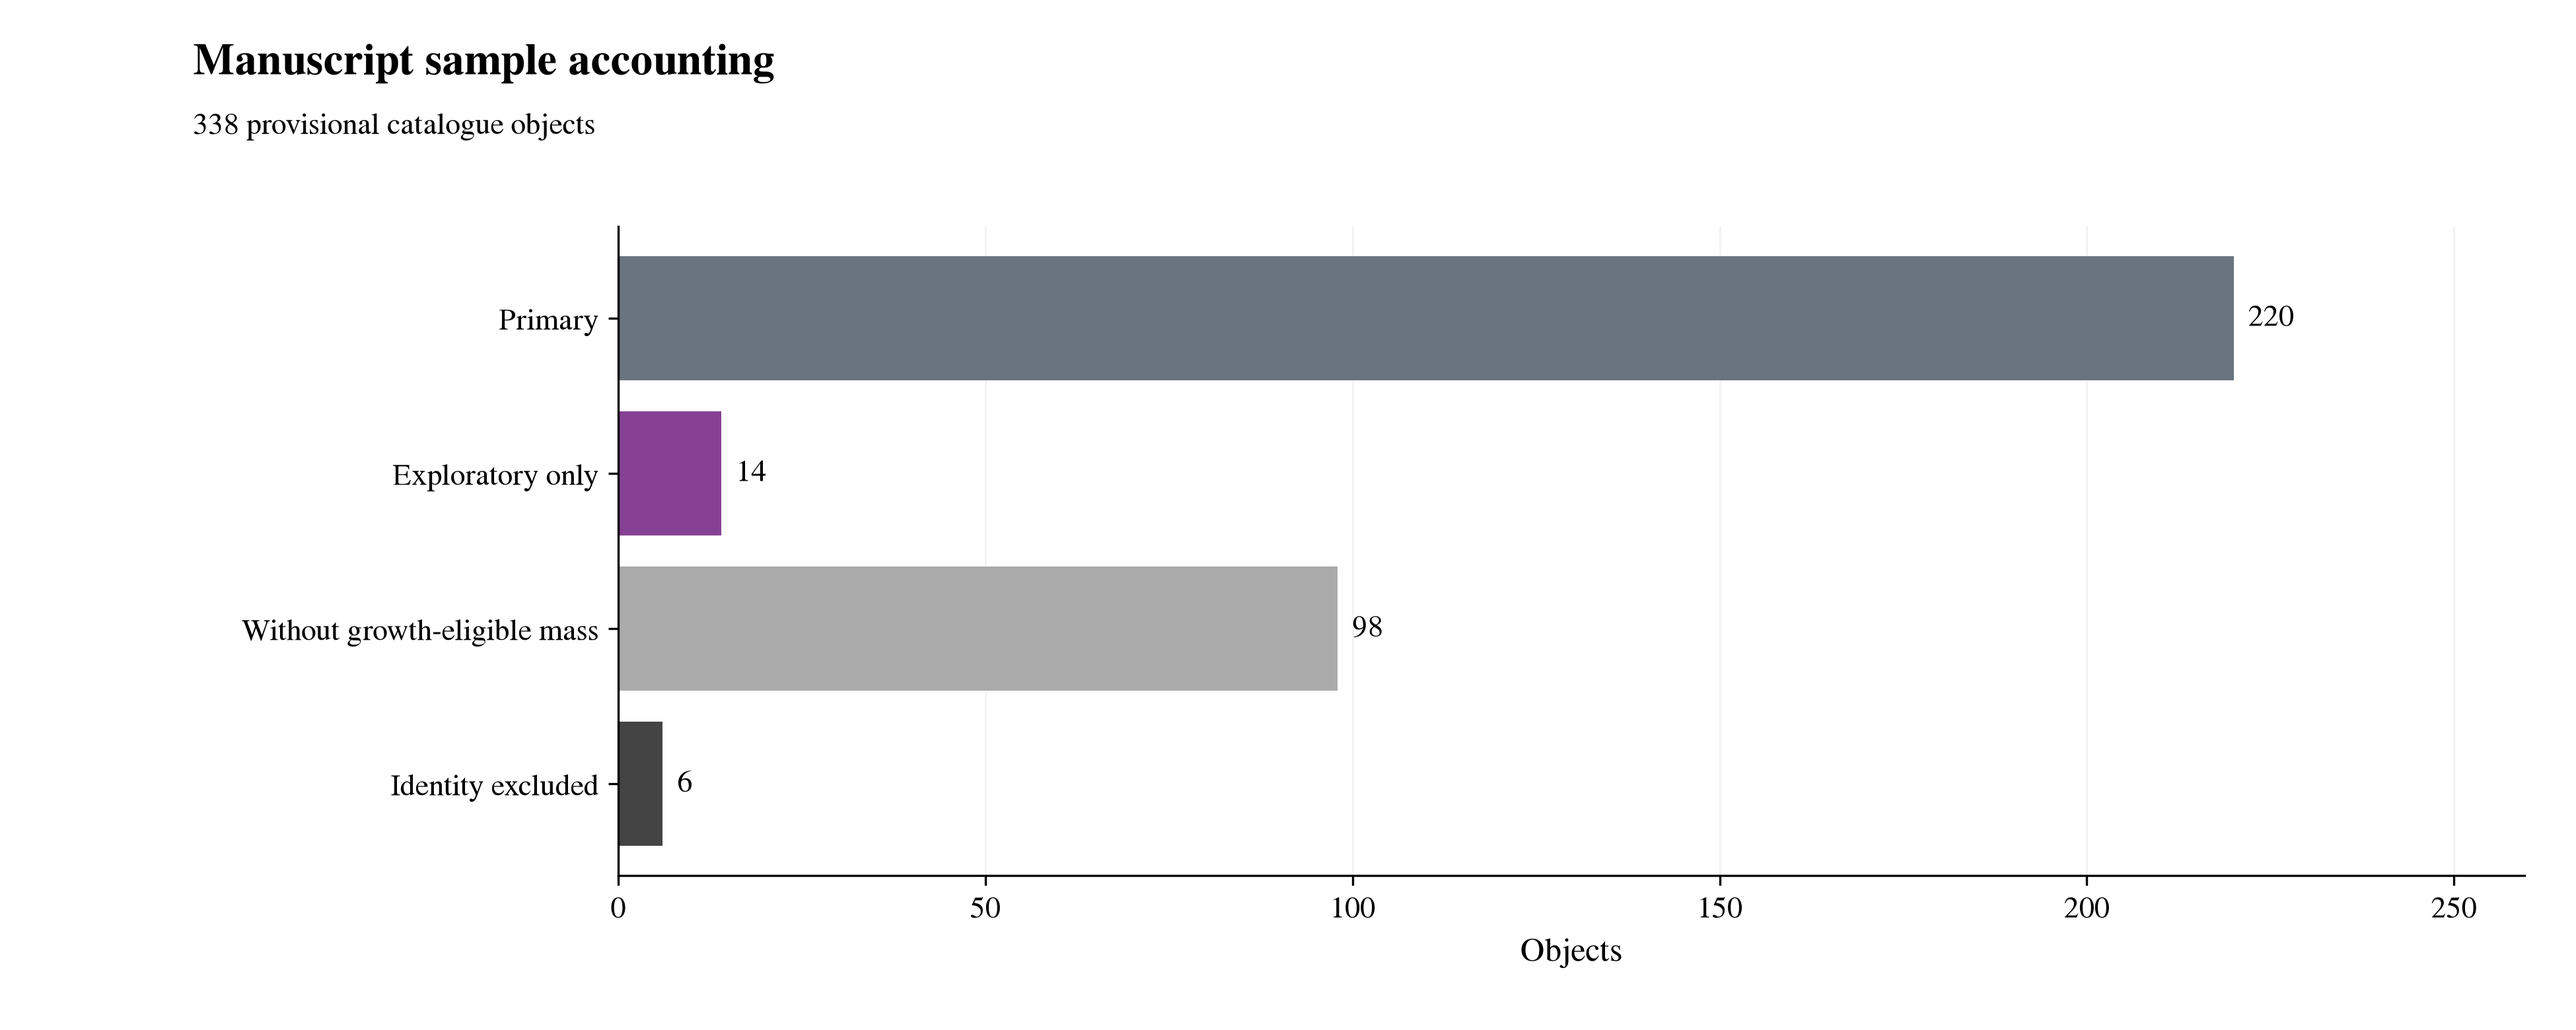
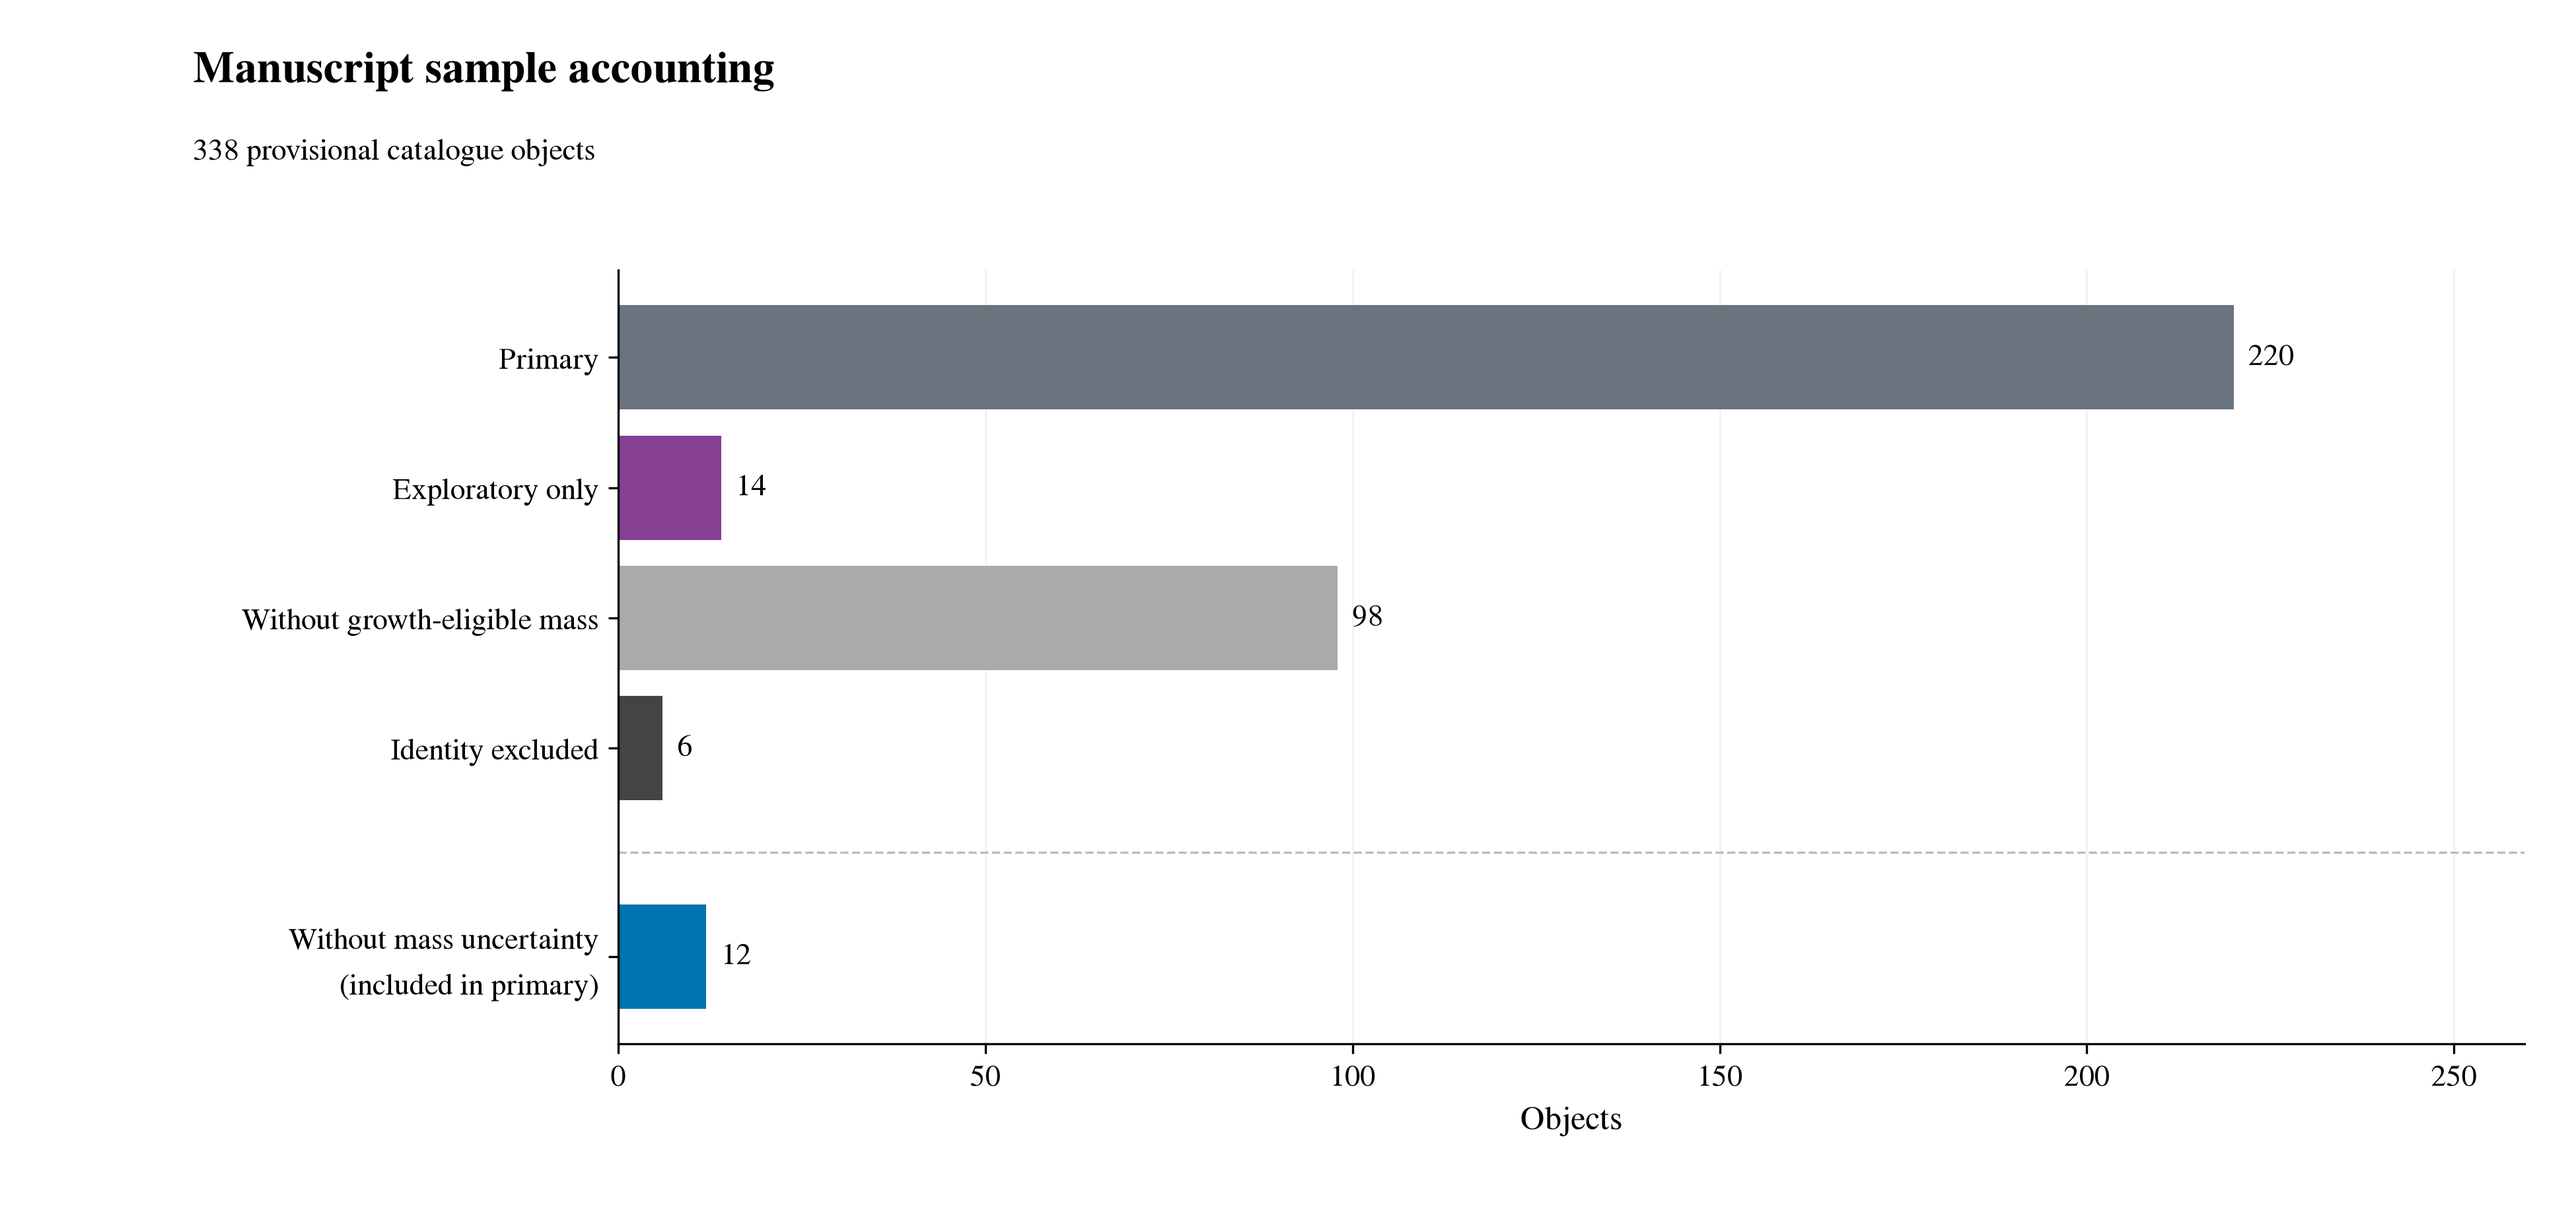
Add missing mass uncertainty subset to sample accounting figure

diff --git a/src/internal/publication_figures.py b/src/internal/publication_figures.py
@@ -44,15 +44,23 @@ def render_figures(root=ROOT, destination=None):
             fig.savefig(destination/f'{name}.pdf', facecolor='white',
                         metadata={'CreationDate': None, 'ModDate': None})
             plt.close(fig)
-        fig, counts = plt.subplots(figsize=(13,5.2))
+        fig, counts = plt.subplots(figsize=(13,6.2))
         fig.subplots_adjust(left=.24,right=.98,bottom=.15,top=.78)
         fig.text(.075,.96,'Manuscript sample accounting',fontsize=16,weight='bold',va='top')
         fig.text(.075,.87,f'{len(selection)} provisional catalogue objects',fontsize=11)
         excluded = selection.excluded_identity_flag
         values = [len(primary),len(point)-len(primary),int((~excluded & ~selection.growth_ranking_eligible_flag).sum()),int(excluded.sum())]
-        labels = ['Primary','Exploratory only','Without growth-eligible mass','Identity excluded']
-        counts.barh(labels,values,color=['#69747e','#874194','#aaa','#444'])
-        for i,v in enumerate(values):counts.text(v+2,i,str(v),va='center')
+        missing_errors = uncertainty.loc[~uncertainty.reported_mass_errors_sampled]
+        if not set(missing_errors.physical_object_id).issubset(primary):
+            raise ValueError('Update the missing-uncertainty subset label: not all objects are primary')
+        values.append(len(missing_errors))
+        labels = ['Primary','Exploratory only','Without growth-eligible mass','Identity excluded',
+                  'Without mass uncertainty\n(included in primary)']
+        positions = [0,1,2,3,4.6]
+        counts.barh(positions,values,color=['#69747e','#874194','#aaa','#444','#0072B2'])
+        counts.set_yticks(positions, labels)
+        counts.axhline(3.8, color='#bbb', linewidth=.8, linestyle='--')
+        for y,v in zip(positions,values):counts.text(v+2,y,str(v),va='center')
         counts.set(xlabel='Objects',xlim=(0,max(values)*1.18));counts.invert_yaxis()
         counts.grid(axis='x',alpha=.15);counts.set_axisbelow(True)
         save(fig,'landscape')

diff --git a/paper/highz_accretion_atlas_v3.tex b/paper/highz_accretion_atlas_v3.tex
@@ -695,10 +695,12 @@ Table~\ref{tab:sources} lists the contributing source families.
 \begin{figure}[htbp]
 \centering
 \includegraphics[width=0.99\textwidth]{figures/landscape.pdf}
-\caption{Sample accounting for 338 provisional catalogue objects. Mutually exclusive
-categories comprise 220 primary objects, 14 additional exploratory objects,
-98 retained without eligible masses, and 6 identity exclusions. The inclusive
-exploratory numerical sample contains 234 objects.}
+\caption{Sample accounting for 338 provisional catalogue objects. The first four
+bars show mutually exclusive categories: 220 primary objects, 14 additional
+exploratory objects, 98 retained without eligible masses, and 6 identity exclusions.
+The final bar shows the 12 primary objects without reported mass uncertainties;
+these are included in the primary count. The inclusive exploratory sample contains
+234 objects. Probability calculations use 208 primary and 222 exploratory objects.}
 \label{fig:landscape}
 \end{figure}
 

diff --git a/paper/figures/README.md b/paper/figures/README.md
@@ -5,7 +5,9 @@ Verify by `python -m src.internal.publication_figures --verify` (also notebook 0
 
 All plotted numerical records pass the conservative publication selection:
 220 primary and 14 additional exploratory objects. The coverage panel separately
-accounts for 98 objects without growth-eligible masses and six identity exclusions. Compatibility
+accounts for 98 objects without growth-eligible masses and six identity exclusions.
+A separated fifth bar shows the 12 primary objects without reported mass uncertainties;
+these are included in the primary count. Compatibility
 columns show primary and inclusive exploratory samples, not independent populations.
 Seed scenarios label the rows; shared axis titles and bottom-only scenario ticks
 avoid repeating labels across panels. The colorbar reports percentages.
